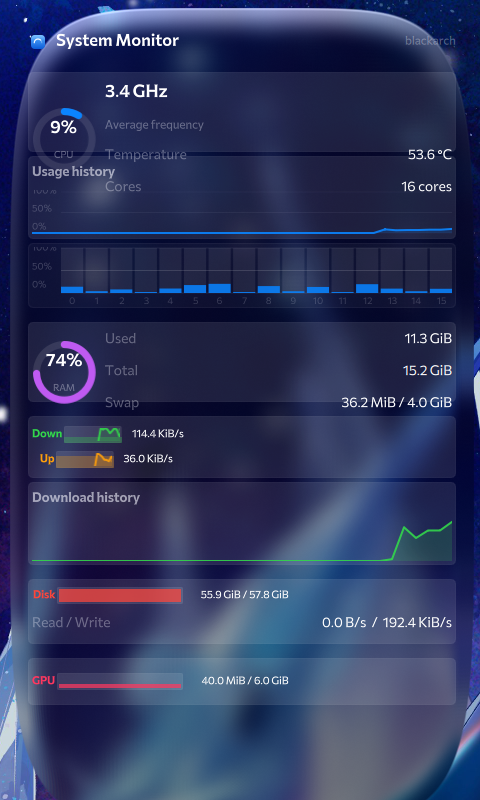
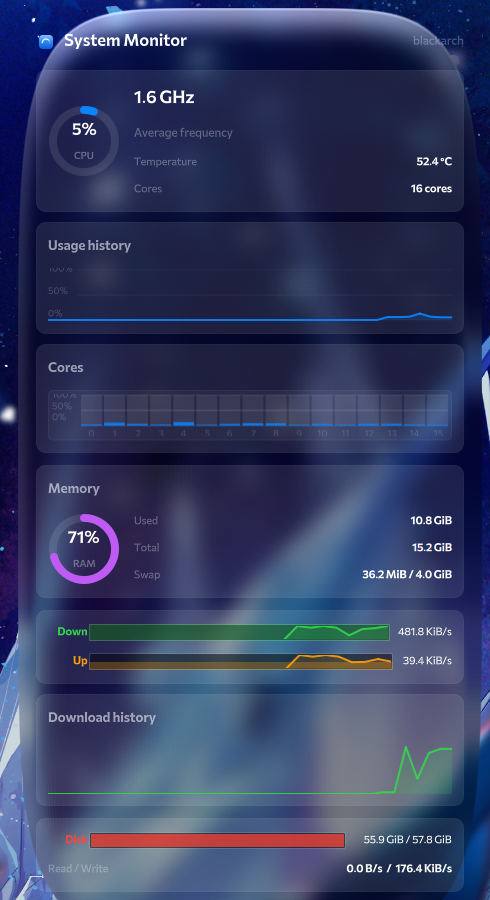
docs: refresh screenshot and changelog for the stat card fixes

diff --git a/CHANGELOG.md b/CHANGELOG.md
@@ -25,6 +25,17 @@ and the project adheres to [Semantic Versioning](https://semver.org/).
   `valueSlot`/`meterWidth` extensions for wider value strings and meters
   (upstream adaptations, documented in the file headers).
 
+### Fixed
+
+- Stat cards now size to their content — the fixed card heights taken
+  from KStats' dropdown made the detail rows overflow onto neighbouring
+  cards.
+- Ring gauge text scales with the ring size, so the percent/label no
+  longer clip on smaller rings; ring values ease instead of jumping.
+- Network/disk/GPU meter rows stretch to the card width with an aligned
+  label column and a dark meter backdrop, keeping the colored sparklines
+  readable on any glass tint.
+
 ## [0.1.0] - 2026-10-28
 
 ### Added
